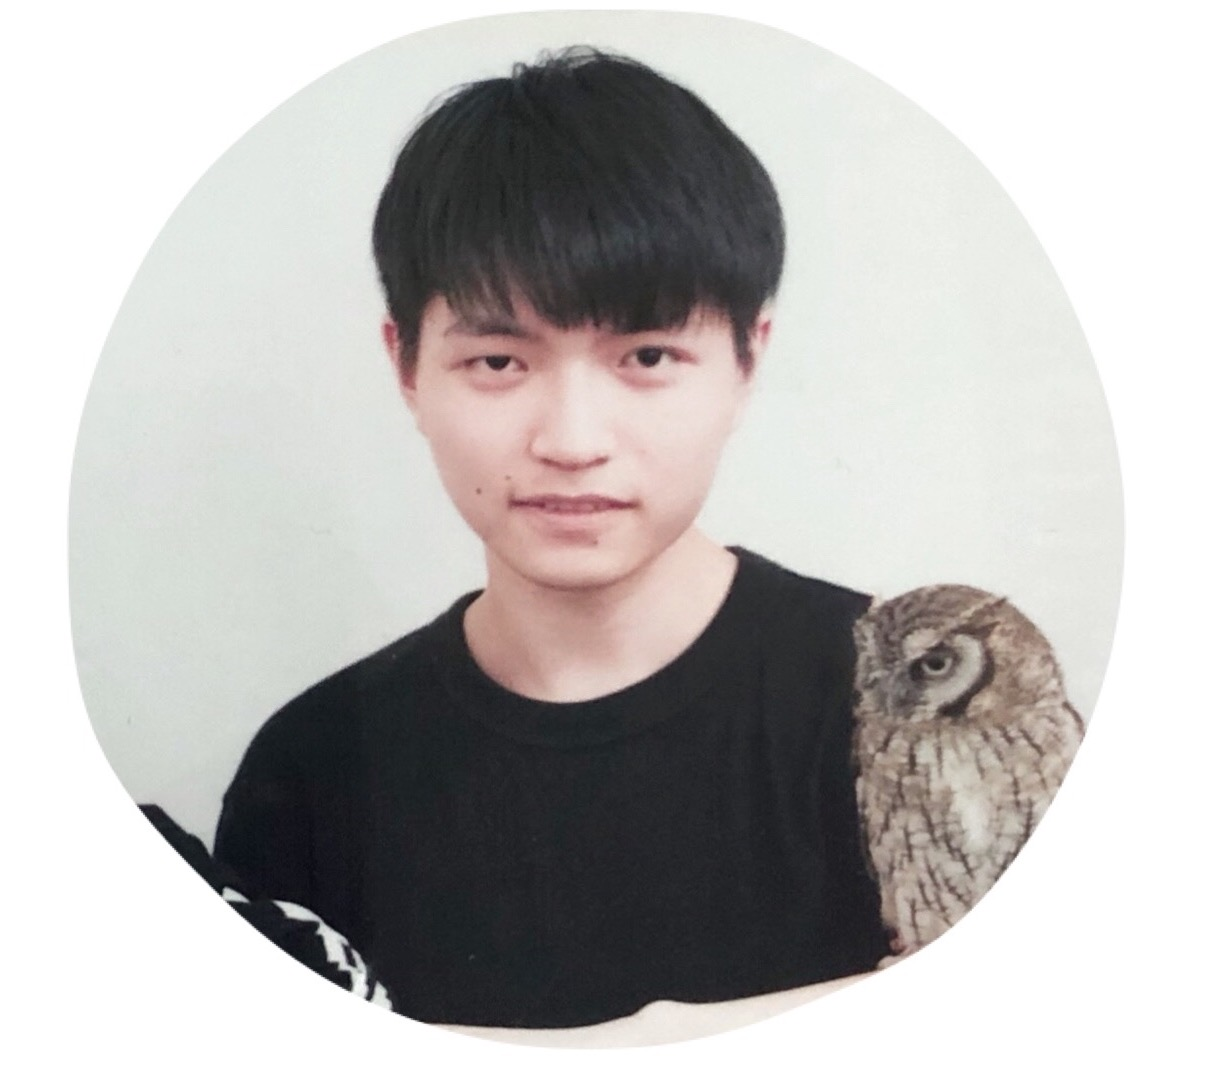
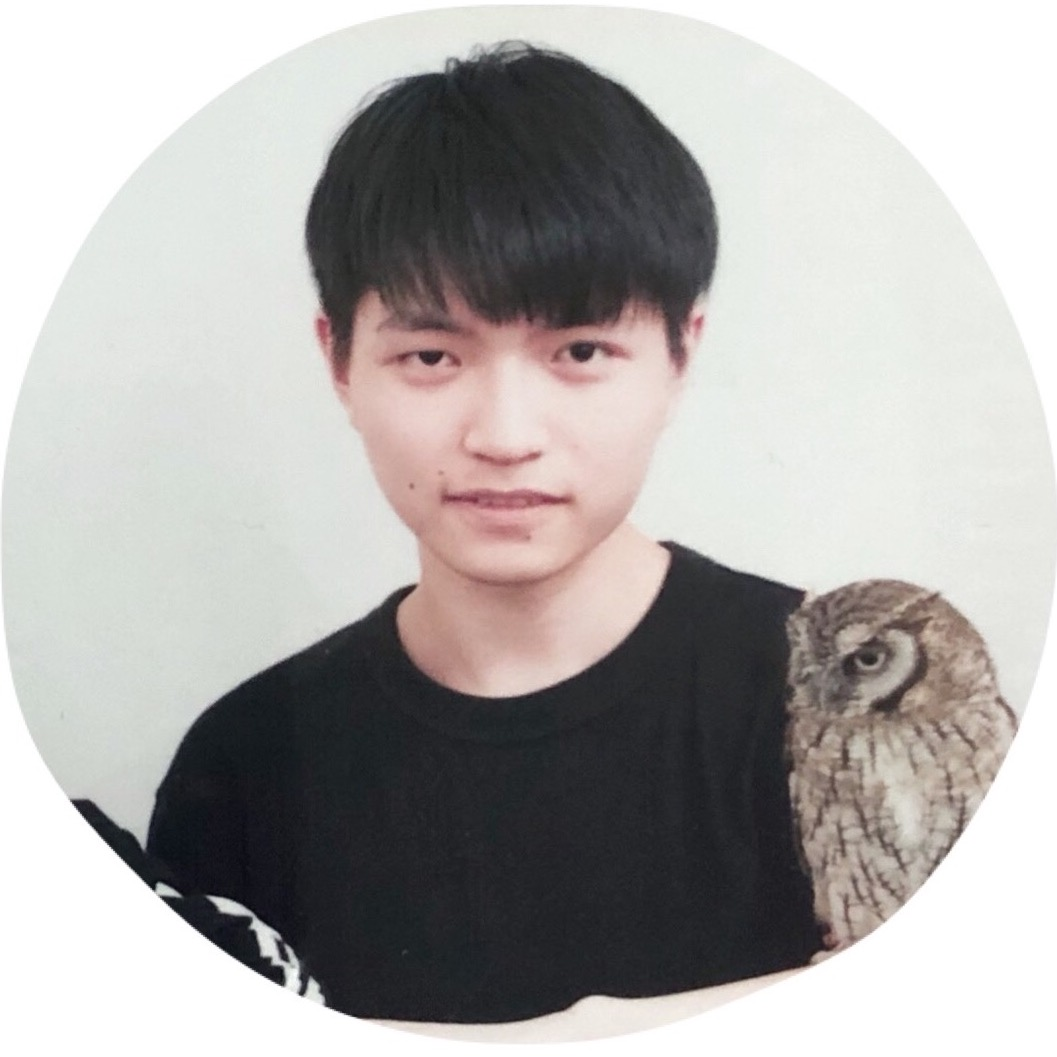
Modified members page as for 2022Fall semester.

diff --git a/members.html b/members.html
@@ -67,7 +67,7 @@
         <a href="https://www.wide.ad.jp/">WIDE Project</a> ボードメンバー
         </p>
         <br>
-        <img src="images/members/generic.png" alt="kusumoto" height="200px" class="about-image">
+        <img src="images/members/kusumoto.jpeg" alt="kusumoto" height="200px" class="about-image">
         <b>kusumoto</b>
         <p>楠本 博之
           <br>
@@ -103,7 +103,8 @@
       <img src="images/members/michal.png" alt="michal" width="200px" height="200px" class="about-image"><b>Michal</b>
       <p>Michal Hajdušek 政策・メディア研究科特任講師  <a href="https://scholar.google.com/citations?user=8DgauUcAAAAJ&hl=en&oi=ao">Google scholar</a></p><br>
 
-      <img src="images/members/bernard.jpg" alt="bernard" width="200px" height="200px" class="about-image", style="border-radius: 999px;"><b>bernard</b>
+      <img src="images/members/bernard.jpg" alt="bernard" width="200px" height="200px" class="about-image", style="border-radius: 999px;"><b>BOS</b>
+      <p>Bernard Ousmane Sane 政策・メディア研究科特任講師  <a href="https://scholar.google.com/citations?user=YMJbS5wAAAAJ&hl=en">Google scholar</a></p><br>
 </font>
       <h2 class="icon">Doctoral Students 博士課程 </h2>
 	<img src="images/members/sara.png" alt="sara" width="200px" height="200px" class="about-image">
@@ -112,9 +113,9 @@
   <img src="images/members/whit3z.png" alt="whit3z" width="200px" height="200px" class="about-image">
   <b>
        whit3z(D3) <br> </br><br>
-       <img src="images/members/poramet.jpg" alt="poramet" width="200px" height="200px" class="about-image" style="border-radius: 999px;">
-       <b>
-            poramet(D1) <br> <br>
+  <img src="images/members/poramet.jpg" alt="poramet" width="200px" height="200px" class="about-image" style="border-radius: 999px;">
+  <b>
+       poramet(D1) <br> <br>
    <h2 class="icon">Master's Students  修士課程</h2>
        <img src="images/members/cocori.png" alt="cocori" width="200px" height="200px" class="about-image">
        <b>cocori(M2)</b>
@@ -122,22 +123,23 @@
        <b>rum(M2)</b>
       </br><br>
       <img src="images/members/sam.png" alt="sam" width="200px" height="200px" class="about-image">
-      <b>sam(M2) </b> 
+      <b>sam(M2)</b> 
       <img src="images/members/sitong.png" alt="sitong" width="200px" height="200px" class="about-image" style="border-radius: 50%;">
       <b>sitong(M2)</b>
-    </br>
+     　</br>
       <a href="https://github.com/starktech23?tab=repositories">GitHub</a>
-       </br><br>
+      </br><br>
       <img src="images/members/zigen.png" alt="rum" width="200px" height="200px" class="about-image" style="border-radius: 50%;">
       <b>zigen(M2)</b>
-      <br>
+    　</br><br>
       <img src="images/members/zomi.png" alt="zomi" width="200px" height="200px" class="about-image">
       <b>zomi(M1)
       <img src="images/members/dave.png" alt="dave" width="200px" height="200px" class="about-image">
       <b>dave(M1)</b>
-      <img src="images/members/syu.png" alt="syu" width="200px" height="200px" class="about-image">
+    　</br><br>
+      <img src="images/members/syu.jpeg" alt="syu" width="200px" height="200px" class="about-image">
       <b>syu(M1)</b>
-      <br>
+    　</br><br>
       <h2 class="icon">Undergraduate  学部生</h2>
    <font color="black">
        <!--B4 students-->
@@ -146,46 +148,49 @@
        <b>shingy(B4)</b>
        <img src="images/members/coscos.png" alt="coscos" width="150px" height="150px" class="about-image">
        <b>coscos(B4)</b>
-       <!--B3 students-->
        </br><br>
        <img src="images/members/mason.jpg" alt="mason" width="150px" height="150px" class="about-image" style="border-radius: 999px;">
-       <b>mason(B4) </b>
-       <br>
+       <b>mason(B4)</b>
+       </br><br>
+       <!--B3 students-->
        <!--B2 students-->
        <img src="images/members/syui.png" alt="syui" width="150px" height="150px" class="about-image" style="border-radius: 999px;">
        <b>syui(B2) </b>
        <img src="images/members/kent_tea.png" alt="kent_tea" width="150px" height="150px" class="about-image" style="border-radius: 999px;">
        <b>kent-tea(B2) </b>
-       <br>
+      </br><br>
        <!--B1 students-->
-       <img src="images/members/dawidth.png" alt="dawidth" width="150px" height="150px" class="about-image">
-       <b>dawidth(B1)</b>
-       <img src="images/members/yuki.png" alt="yuki" width="150px" height="150px" class="about-image">
-       <b>yuki(B1)</b>
        <img src="images/members/soon.png" alt="soon" width="150px" height="150px" class="about-image">
        <b>soon(B1)</b>
-       <br>
+      </br><br>
    </font>
    <h2 class="icon">Old Boys, Old Girls (Alumni)</h2>
+   <img src="images/members/dawidth.png" alt="dawidth" width="150px" height="150px" class="about-image">
+   <b>dawidth(B1)</b>
+   <img src="images/members/yuki.png" alt="yuki" width="150px" height="150px" class="about-image">
+   <b>yuki(B1)</b>
+   <br>
    <img src="images/members/nora.png" alt="nora" width="150px" height="150px" class="about-image">
-   <b>nora</b>
-   <img src="images/members/voy.png" alt="voy" width="150px" height="150px" class="about-image">
-   <b>voy</b>
+   <b>nora(-2021)</b>
+   <img src="images/members/generic.png" alt="voy" width="150px" height="150px" class="about-image">
+   <b>voy(-2021)</b>
    <br>
    <img src="images/members/kuku.png" alt="kuku" width="150px" height="150px" class="about-image">
-   <b>kuku</b>
+   <b>kuku(-2021)</b>
    <img src="images/members/tam.png" alt="tam" width="150px" height="150px" class="about-image">
-   <b>tam</b>
+   <b>tam(-2021)</b>
    <br>
    <img src="images/members/sakaue.png" alt="sakaue" width="150px" height="150px" class="about-image">
-   <b>sakaue(-2022)</b>
+   <b>sakaue(-2021)</b>
    <img src="images/members/murdock.png" alt="murdock" width="150px" height="150px" class="about-image">
-   <b>murdock(-2021)</b><br>
+   <b>murdock(-2021)</b>
+   <br>
    <img src="images/members/martian.png" alt="martian" width="150px" height="150px" class="about-image">
    <b>martian(-2019)</b>
    <img src="images/members/parton.png" alt="parton" width="150px" height="150px" class="about-image">
    <b>parton(-2020)</b><br>
-   <img src="images/members/kurosagi.png" alt="kurosagi" width="150px" height="150px" class="about-image"><b><a href="https://scholar.google.co.jp/citations?user=NyfLP0IAAAAJ&hl=en">kurosagi</a></b>
+   <img src="images/members/kurosagi.png" alt="kurosagi" width="150px" height="150px" class="about-image">
+   <b><a href="https://scholar.google.co.jp/citations?user=NyfLP0IAAAAJ&hl=en">kurosagi</a></b>
 
    <img src="images/members/kaaki.png" alt="kaaki" width="150px" height="150px" class="about-image">
    <b><a href="https://scholar.google.co.jp/citations?user=_pAtoBMAAAAJ&hl=ja">kaaki(-2019)</a></b><br>

diff --git a/members_en.html b/members_en.html
@@ -66,7 +66,7 @@
         Faculty of Graduate school of Media and Governance, Keio University<br>
         Board Member, <a href="https://www.wide.ad.jp/">WIDE Project</a><br>
       </p>
-      <img src="" alt="kusumoto" width="200px" height="200px" class="about-image">
+      <img src="images/members/kusumoto.jpeg" alt="kusumoto"  height="200px" class="about-image">
       <font  color="black">
         <b>kusumoto</b>
       <p>Hiroyuki Kusumoto<br>
@@ -113,6 +113,13 @@
         Project Assistant Professor, Graduate School of Media and Governance 
       </p>
 
+      <img src="images/members/bernard.jpg" alt="bernard" width="200px" height="200px" class="about-image", style="border-radius: 999px;">
+      <b>BOS</b>
+      <p>Bernard Ousmane Sane Project Assistant Professor, Graduate School of Media and Governance <br>
+        <a href=“https://scholar.google.com/citations?user=YMJbS5wAAAAJ&hl=en”>Google scholar</a>
+      </p>
+
+
 	    </font>
       <h2 class="icon">Doctoral Students </h2>
       <img src="images/members/sara.png" alt="sara" width="200px" height="200px" class="about-image">
@@ -126,23 +133,24 @@
       <b>
            poramet(D1) <br> <br>
        <h2 class="icon">Master's Students </h2>
-       <img src="images/members/sam.png" alt="sam" width="200px" height="200px" class="about-image">
-      <b>
-           sam(M2) <br> <a href="https://github.com/starktech23?tab=repositories">GitHub</a></br><br>
        <img src="images/members/cocori.png" alt="cocori" width="200px" height="200px" class="about-image">
        <b>cocori(M2)</b>
        <img src="images/members/rum.png" alt="rum" width="200px" height="200px" class="about-image">
-       <b>rum(M1)</b>
-
-      <img src="images/members/sitong.png" alt="sitong" width="200px" height="200px" class="about-image">
-      <b>sitong(M1)</b>
+       <b>rum(M2)</b>
+      </br><br>
+      <img src="images/members/sam.png" alt="sam" width="200px" height="200px" class="about-image">
+      <b>sam(M2)</b> 
+      <img src="images/members/sitong.png" alt="sitong" width="200px" height="200px" class="about-image" style="border-radius: 50%;">
+      <b>sitong(M2)</b>
+    　</br><br>
       <img src="images/members/zigen.png" alt="rum" width="200px" height="200px" class="about-image" style="border-radius: 50%;">
-      <b>zigen(M1)</b>
-      <br>
+      <b>zigen(M2)</b>
+      </br><br>
       <img src="images/members/zomi.png" alt="zomi" width="200px" height="200px" class="about-image">
       <b>zomi(M1)
       <img src="images/members/dave.png" alt="dave" width="200px" height="200px" class="about-image">
       <b>dave(M1)</b>
+      </br><br>
       <img src="images/members/syu.png" alt="syu" width="200px" height="200px" class="about-image">
       <b>syu(M1)</b>
       <br>
@@ -150,42 +158,46 @@
         <font color="black">
             <!--B4 students-->
 	    <img src="images/members/shingy.png" alt="shingy" width="150px" height="150px" class="about-image">
-            <b>shingy(B4)</b>
+      <b>shingy(B4)</b>
       <img src="images/members/coscos.png" alt="coscos" width="150px" height="150px" class="about-image">
       <b>coscos(B4)</b>
-	    <br>
+      </br><br>
       <img src="images/members/mason.jpg" alt="mason" width="150px" height="150px" class="about-image" style="border-radius: 999px;">
-      <b>
-           mason(B4) <br> <br>
+      <b>mason(B4)</b>
+      </br><br>
             <!--B3 students-->
-            <img src="images/members/sakaue.png" alt="sakaue" width="150px" height="150px" class="about-image">
-            <b>sakaue(B3)</b>
-            <br>
-            
             <!--B2 students-->
-            <br>
-            <img src="images/members/nora.png" alt="nora" width="150px" height="150px" class="about-image">
-            <b>nora(B2)</b>
-            <img src="images/members/voy.png" alt="voy" width="150px" height="150px" class="about-image">
-            <b>voy(B2)</b>
-              <br>
-            <img src="images/members/kuku.png" alt="kuku" width="150px" height="150px" class="about-image">
-            <b>kuku(B2)</b>
-	           <img src="images/members/tam.png" alt="tam" width="150px" height="150px" class="about-image">
-            <b>tam(B2)</b>
-            <br>
+            <img src="images/members/syui.png" alt="syui" width="150px" height="150px" class="about-image" style="border-radius: 999px;">
+            <b>syui(B2) </b>
+            <img src="images/members/kent_tea.png" alt="kent_tea" width="150px" height="150px" class="about-image" style="border-radius: 999px;">
+            <b>kent-tea(B2) </b>
+           </br><br>
             <!--B1 students-->
-            <img src="images/members/dawidth.png" alt="dawidth" width="150px" height="150px" class="about-image">
-            <b>dawidth(B1)</b>
-            <img src="images/members/yuki.png" alt="yuki" width="150px" height="150px" class="about-image">
-            <b>yuki(B1)</b>
             <img src="images/members/soon.png" alt="soon" width="150px" height="150px" class="about-image">
             <b>soon(B1)</b>
-            <br>
+           </br><br>
         </font>
         <h2 class="icon">Old Boys, Old Girls (Alumni)</h2>
+        <img src="images/members/dawidth.png" alt="dawidth" width="150px" height="150px" class="about-image">
+        <b>dawidth(B1)</b>
+        <img src="images/members/yuki.png" alt="yuki" width="150px" height="150px" class="about-image">
+        <b>yuki(B1)</b>
+        <br>
+        <img src="images/members/nora.png" alt="nora" width="150px" height="150px" class="about-image">
+        <b>nora(-2021)</b>
+        <img src="images/members/generic.png" alt="voy" width="150px" height="150px" class="about-image">
+        <b>voy(-2021)</b>
+        <br>
+        <img src="images/members/kuku.png" alt="kuku" width="150px" height="150px" class="about-image">
+        <b>kuku(-2021)</b>
+        <img src="images/members/tam.png" alt="tam" width="150px" height="150px" class="about-image">
+        <b>tam(-2021)</b>
+        <br>
+        <img src="images/members/sakaue.png" alt="sakaue" width="150px" height="150px" class="about-image">
+        <b>sakaue(-2021)</b>
         <img src="images/members/murdock.png" alt="murdock" width="150px" height="150px" class="about-image">
-        <b>murdock(-2021) </b><br>
+        <b>murdock(-2021)</b>
+        <br>
         <img src="images/members/martian.png" alt="martian" width="150px" height="150px" class="about-image">
         <b>martian(-2019)</b>
         <img src="images/members/parton.png" alt="parton" width="150px" height="150px" class="about-image">
